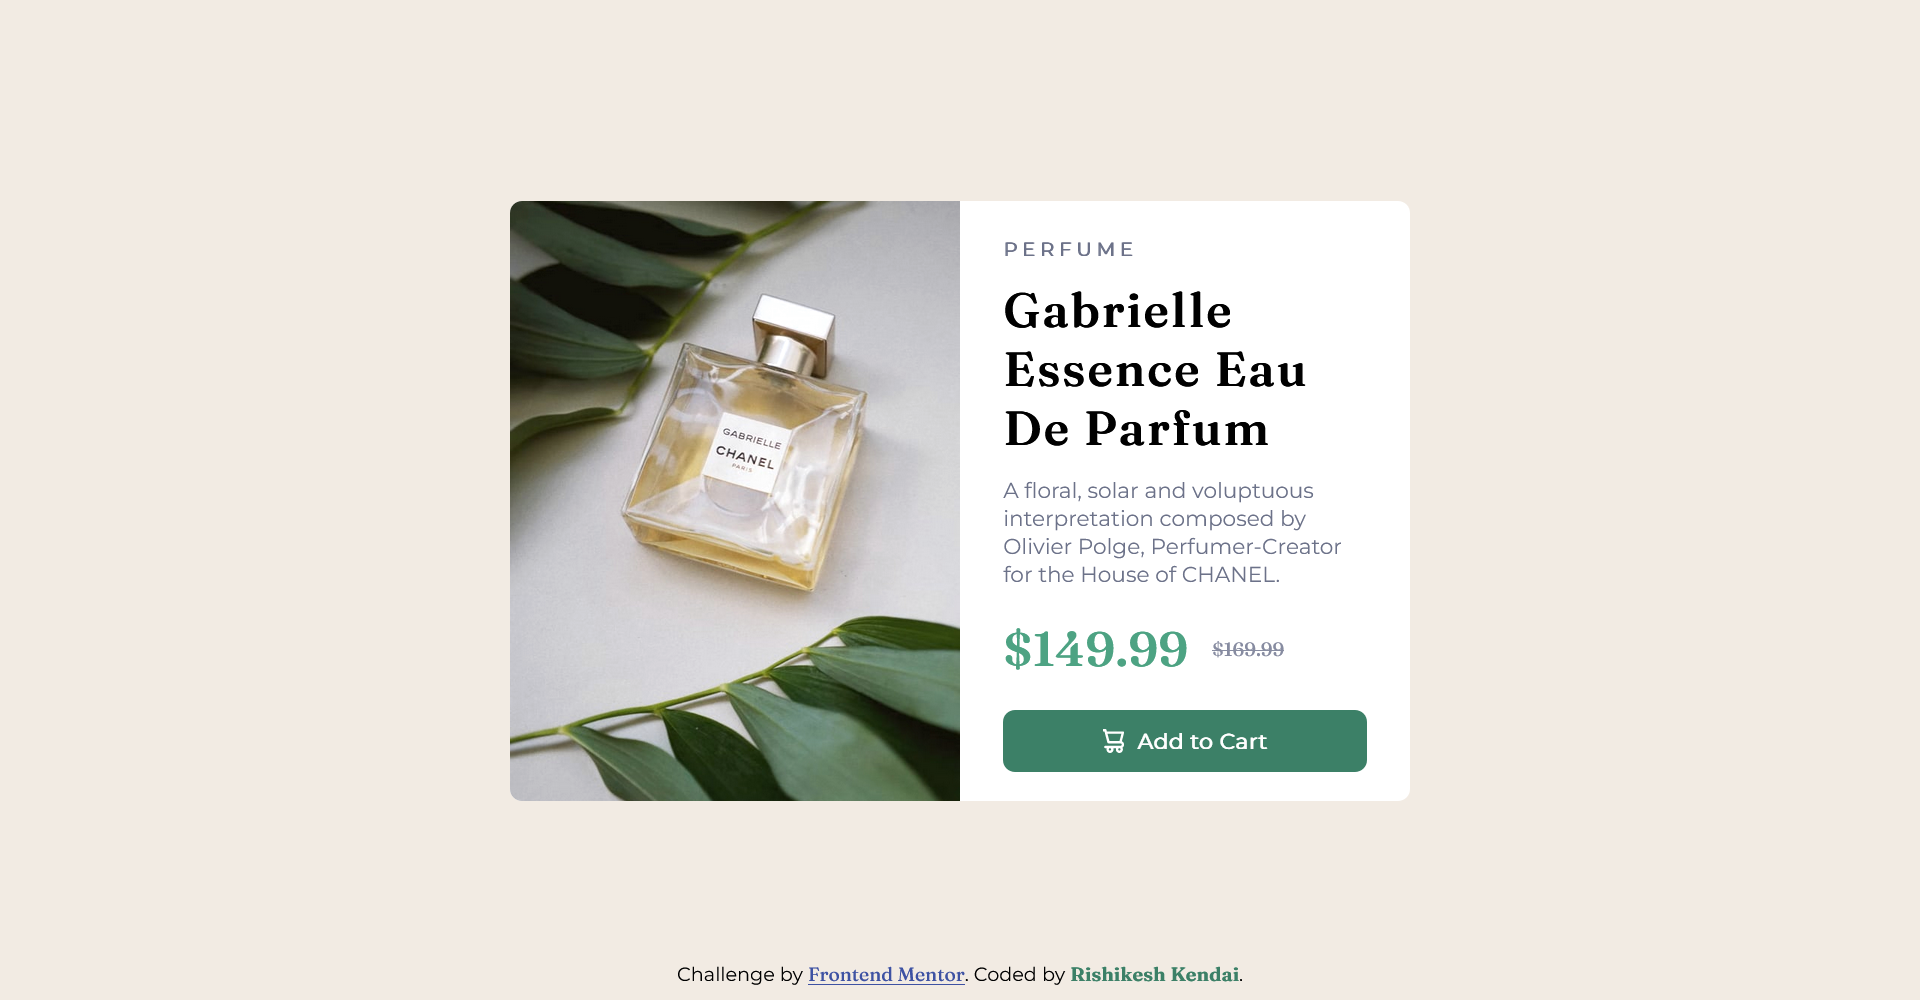
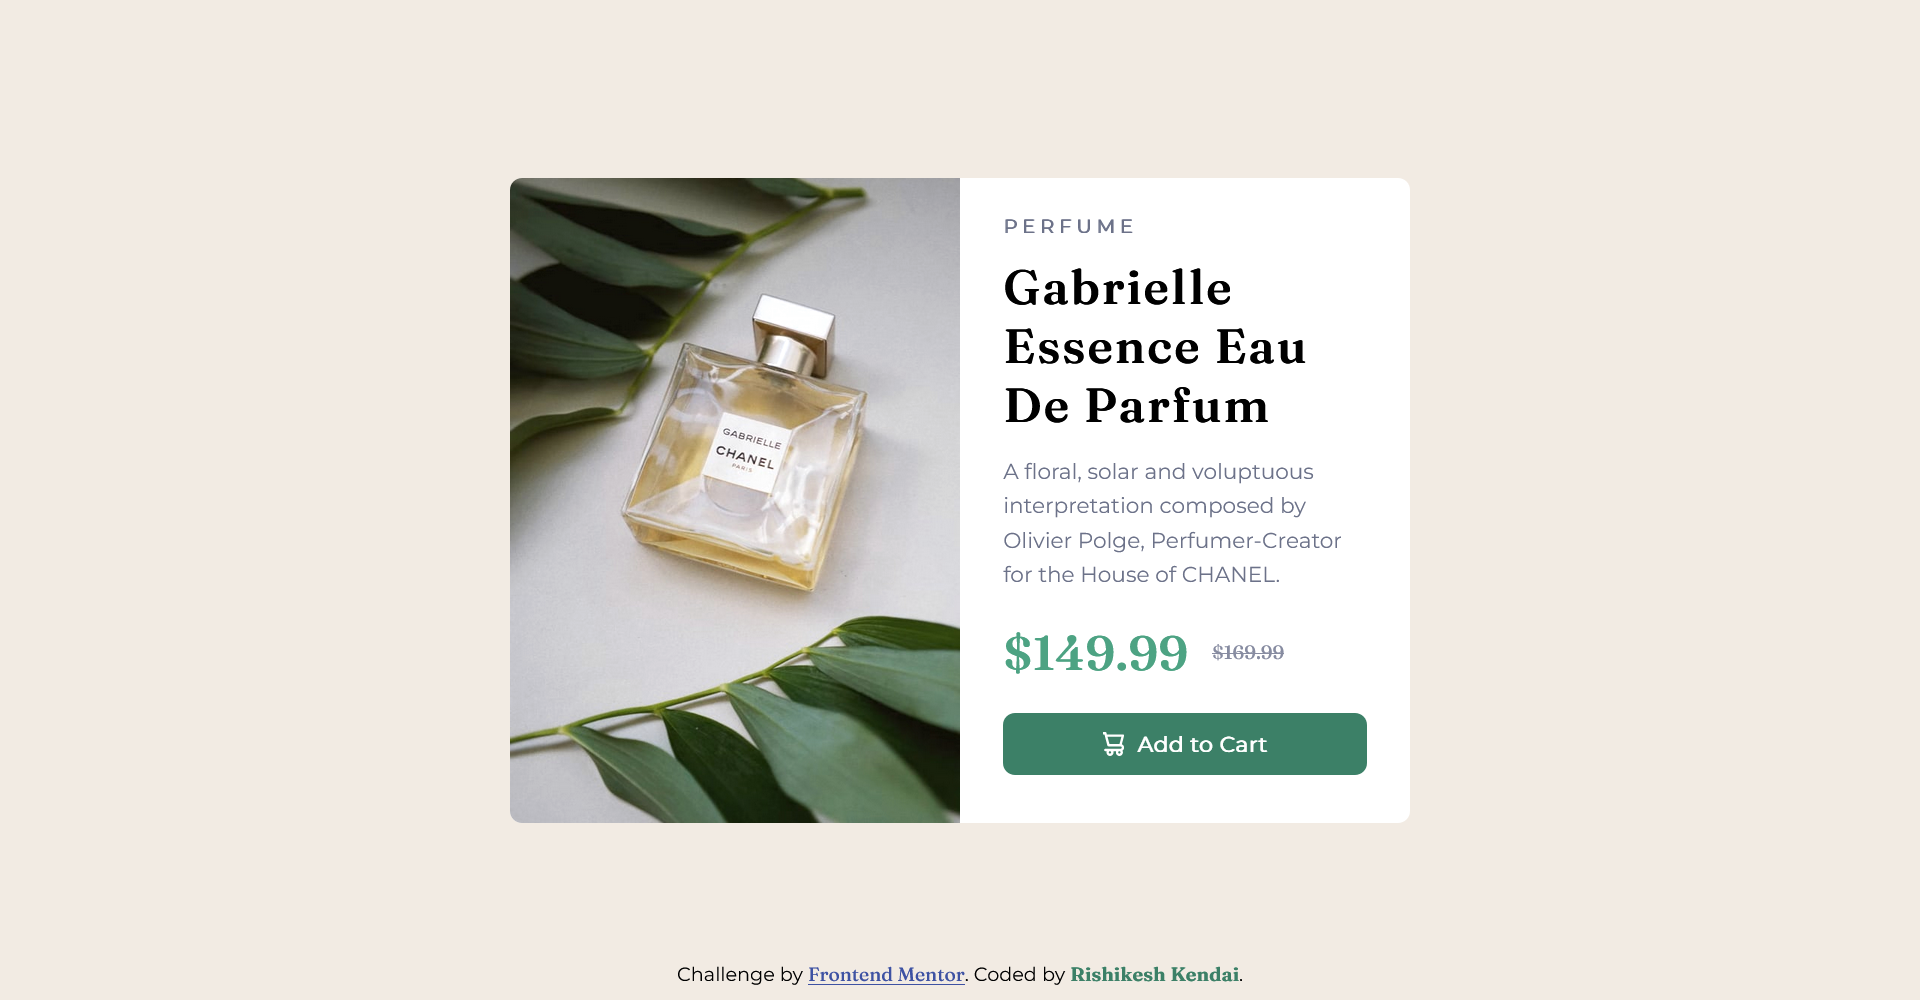
Fix: Change style

Changed region(s): [[0.25, 0.155, 0.75, 0.558], [0.25, 0.713, 0.75, 0.837], [0.5312, 0.62, 0.6562, 0.682]]

diff --git a/styles/css/styles.css b/styles/css/styles.css
@@ -173,7 +173,7 @@ footer a:last-child {
     -webkit-box-direction: normal;
         -ms-flex-direction: row;
             flex-direction: row;
-    height: 450px;
+    height: 430px;
     width: 600px;
   }
   .image {
@@ -191,6 +191,7 @@ footer a:last-child {
   }
   p {
     font-size: 0.9em;
+    line-height: 1.6;
   }
   .price__section {
     margin-bottom: 1.3rem;

diff --git a/styles/scss/styles.scss b/styles/scss/styles.scss
@@ -125,7 +125,7 @@ footer a:last-child {
     }
     main {
         flex-direction: row;
-        height: 450px;
+        height: 430px;
         width: 600px;
     }
     .image {
@@ -139,6 +139,7 @@ footer a:last-child {
     }
     p {
         font-size: 0.9em;
+        line-height: 1.6;
     }
     .price__section {
         margin-bottom: 1.3rem;
